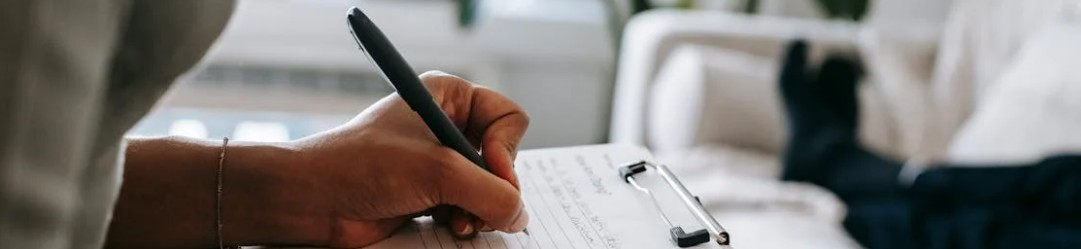
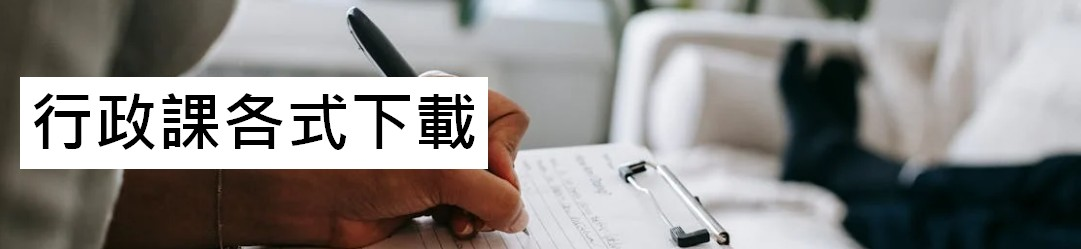
tweak

Changed region(s): [[0.0, 0.3092, 0.4579, 0.7028]]

diff --git a/www/bookmark/index.html b/www/bookmark/index.html
@@ -150,7 +150,7 @@
 				</div>
 			</div>
 			<div class="card card-link">
-				<img src="../assets/img/bookmark/taologo.jpg" class="card-img-top img-fluid" alt="知識網">
+				<img src="../assets/img/bookmark/161.jpg" class="card-img-top img-fluid" alt="知識網">
 				<div class="card-body">
 					<div class="card-title d-flex justify-content-between align-items-center">
 						<h5><i class="fa fa-server fa-lg mr-1 text-primary"></i>地政系統WEB版跨縣市伺服器</h5>
@@ -165,8 +165,8 @@
 				<img src="../assets/img/bookmark/inf_help.jpg" class="card-img-top img-fluid" alt="知識網">
 				<div class="card-body">
 					<div class="card-title d-flex justify-content-between align-items-center">
-						<h5><i class="fas fa-database fa-lg mr-1"></i>資訊課表單下載</h5>
-						<a href="http://220.1.34.18/service/section/%E4%BA%BA%E4%BA%8B%E5%AE%A4/download.html" class="btn btn-primary stretched-link text-white" target="_blank">前往</a>
+						<h5><i class="fas fa-database fa-lg mr-1 text-danger"></i>資訊課各式表單下載</h5>
+						<a href="http://220.1.34.18/service/section/%E8%B3%87%E8%A8%8A%E8%AA%B2/download.html" class="btn btn-primary stretched-link text-white" target="_blank">前往</a>
 					</div>
 					<p class="card-text">提供各式資訊課申請表單下載</p>
 				</div>
@@ -175,7 +175,7 @@
 				<img src="../assets/img/bookmark/personnel_help.jpg" class="card-img-top img-fluid" alt="知識網">
 				<div class="card-body">
 					<div class="card-title d-flex justify-content-between align-items-center">
-						<h5><i class="fa fa-user fa-lg mr-1"></i>人事室各式表單下載</h5>
+						<h5><i class="fa fa-user fa-lg mr-1 text-success"></i>人事室各式表單下載</h5>
 						<a href="http://220.1.34.18/service/section/%E4%BA%BA%E4%BA%8B%E5%AE%A4/download.html" class="btn btn-primary stretched-link text-white" target="_blank">前往</a>
 					</div>
 					<p class="card-text">提供各式人事相關申請表單下載</p>
@@ -185,7 +185,7 @@
 				<img src="../assets/img/bookmark/adm_help.jpg" class="card-img-top img-fluid" alt="知識網">
 				<div class="card-body">
 					<div class="card-title d-flex justify-content-between align-items-center">
-						<h5><i class="fa fa-user-tie fa-lg mr-1"></i>行政課各式下載區</h5>
+						<h5><i class="fa fa-user-tie fa-lg mr-1 text-info"></i>行政課各式下載區</h5>
 						<a href="http://220.1.34.18/service/section/04/download.htm" class="btn btn-primary stretched-link text-white" target="_blank">前往</a>
 					</div>
 					<p class="card-text">行政課各式下載專區</p>
